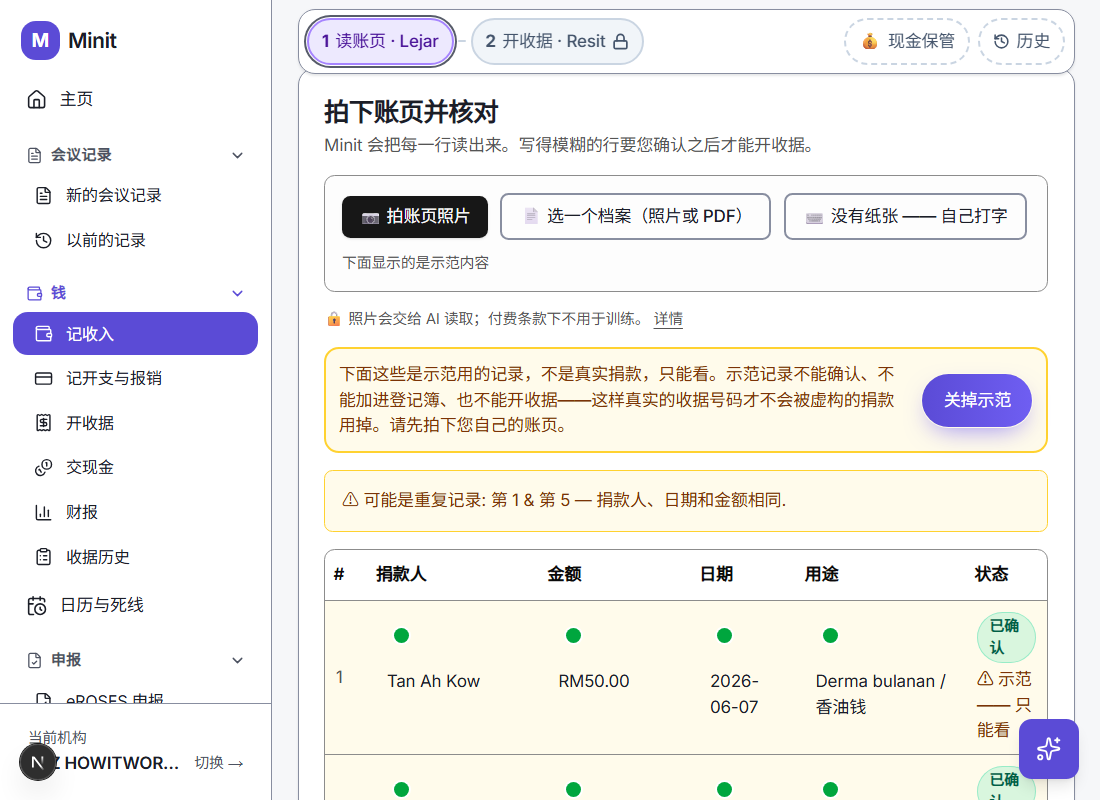
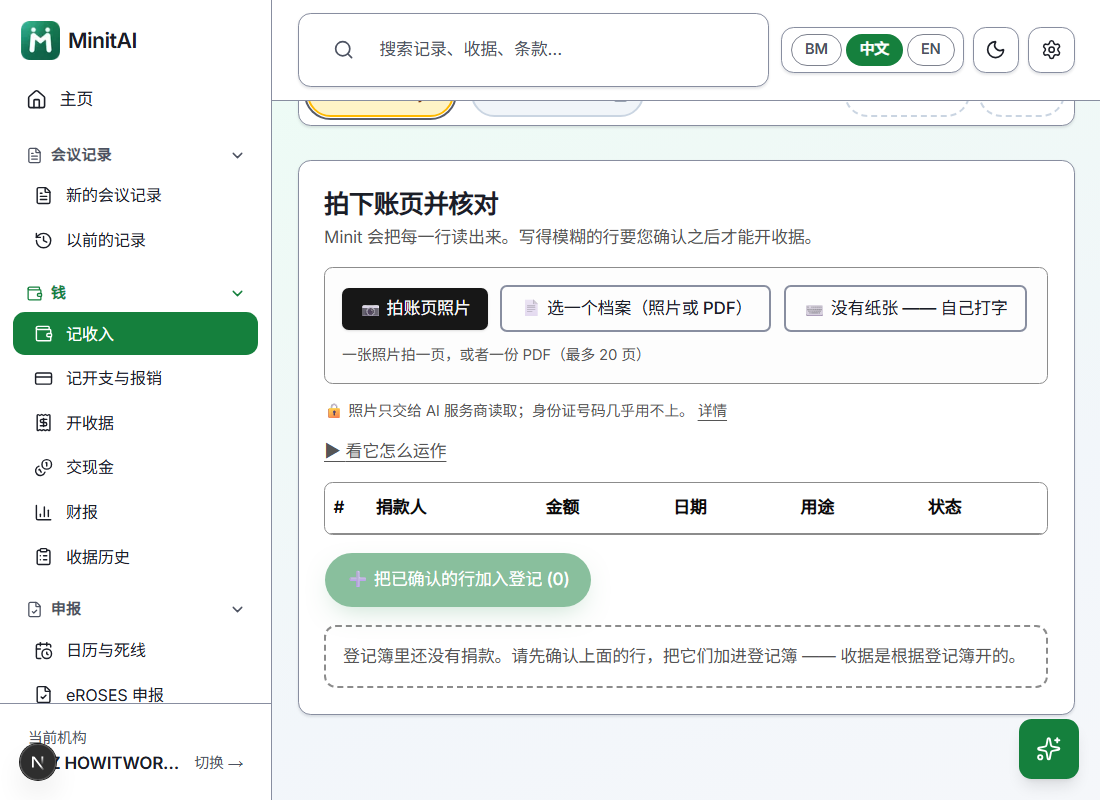
tour: re-shoot the four how-it-works frames on the green UI (step-3 now highlights the confirm button - the in-page sample it pointed at is gone per §1-4); coordinates re-measured by the script

diff --git a/src/app/how-it-works.tsx b/src/app/how-it-works.tsx
@@ -48,10 +48,10 @@ const FRAMES: readonly {
     zh: "拍下手写的会议笔记 —— 也可以自己打字。",
     en: "Photograph the handwritten notes — or type them in.",
     hi: {
-      left: "28.5%",
-      top: "66.5%",
-      width: "11.5%",
-      height: "10%",
+      left: "29.5%",
+      top: "69.0%",
+      width: "9.4%",
+      height: "6.4%",
       labelBm: "Tekan di sini",
       labelZh: "现在按这里",
       labelEn: "Press here",
@@ -64,10 +64,10 @@ const FRAMES: readonly {
     zh: `${BRAND_NAME} 逐行读出来。读不准的会标黄，等您核对。`,
     en: `${BRAND_NAME} reads every line. Smudged ones are flagged for you to check.`,
     hi: {
-      left: "29%",
-      top: "43.5%",
-      width: "67%",
-      height: "13%",
+      left: "29.6%",
+      top: "44.8%",
+      width: "65.5%",
+      height: "10.5%",
       labelBm: "Semak baris kuning di sini",
       labelZh: "标黄的在这里核对",
       labelEn: "Check the flagged lines here",
@@ -79,14 +79,16 @@ const FRAMES: readonly {
     bm: "Anda sahkan — barulah ia masuk daftar dan resit bernombor dijana.",
     zh: "您确认之后，才会进登记簿、开出连号收据。",
     en: "You confirm — only then does it enter the register and get numbered receipts.",
+    // §1-4: the frame now points at the CONFIRM button itself (the sample
+    // rows are gone from the real page — the walkthrough IS the demo).
     hi: {
-      left: "29%",
-      top: "66.5%",
-      width: "67%",
-      height: "30%",
-      labelBm: "Baris yang disahkan",
-      labelZh: "确认好的行在这里",
-      labelEn: "The confirmed rows",
+      left: "29.5%",
+      top: "69.1%",
+      width: "24.3%",
+      height: "6.9%",
+      labelBm: "Sahkan di sini",
+      labelZh: "在这里确认加入登记",
+      labelEn: "Confirm here",
     },
   },
   {
@@ -96,9 +98,9 @@ const FRAMES: readonly {
     zh: "成品出来：正式会议记录、eROSES 粘贴包、您的截止日期。",
     en: "The finished pieces: official minutes, the eROSES pack, your deadlines.",
     hi: {
-      left: "29%",
-      top: "10%",
-      width: "67%",
+      left: "29.5%",
+      top: "5.6%",
+      width: "65.8%",
       height: "40%",
       labelBm: "Dokumen siap anda",
       labelZh: "做好的文件在这里",
